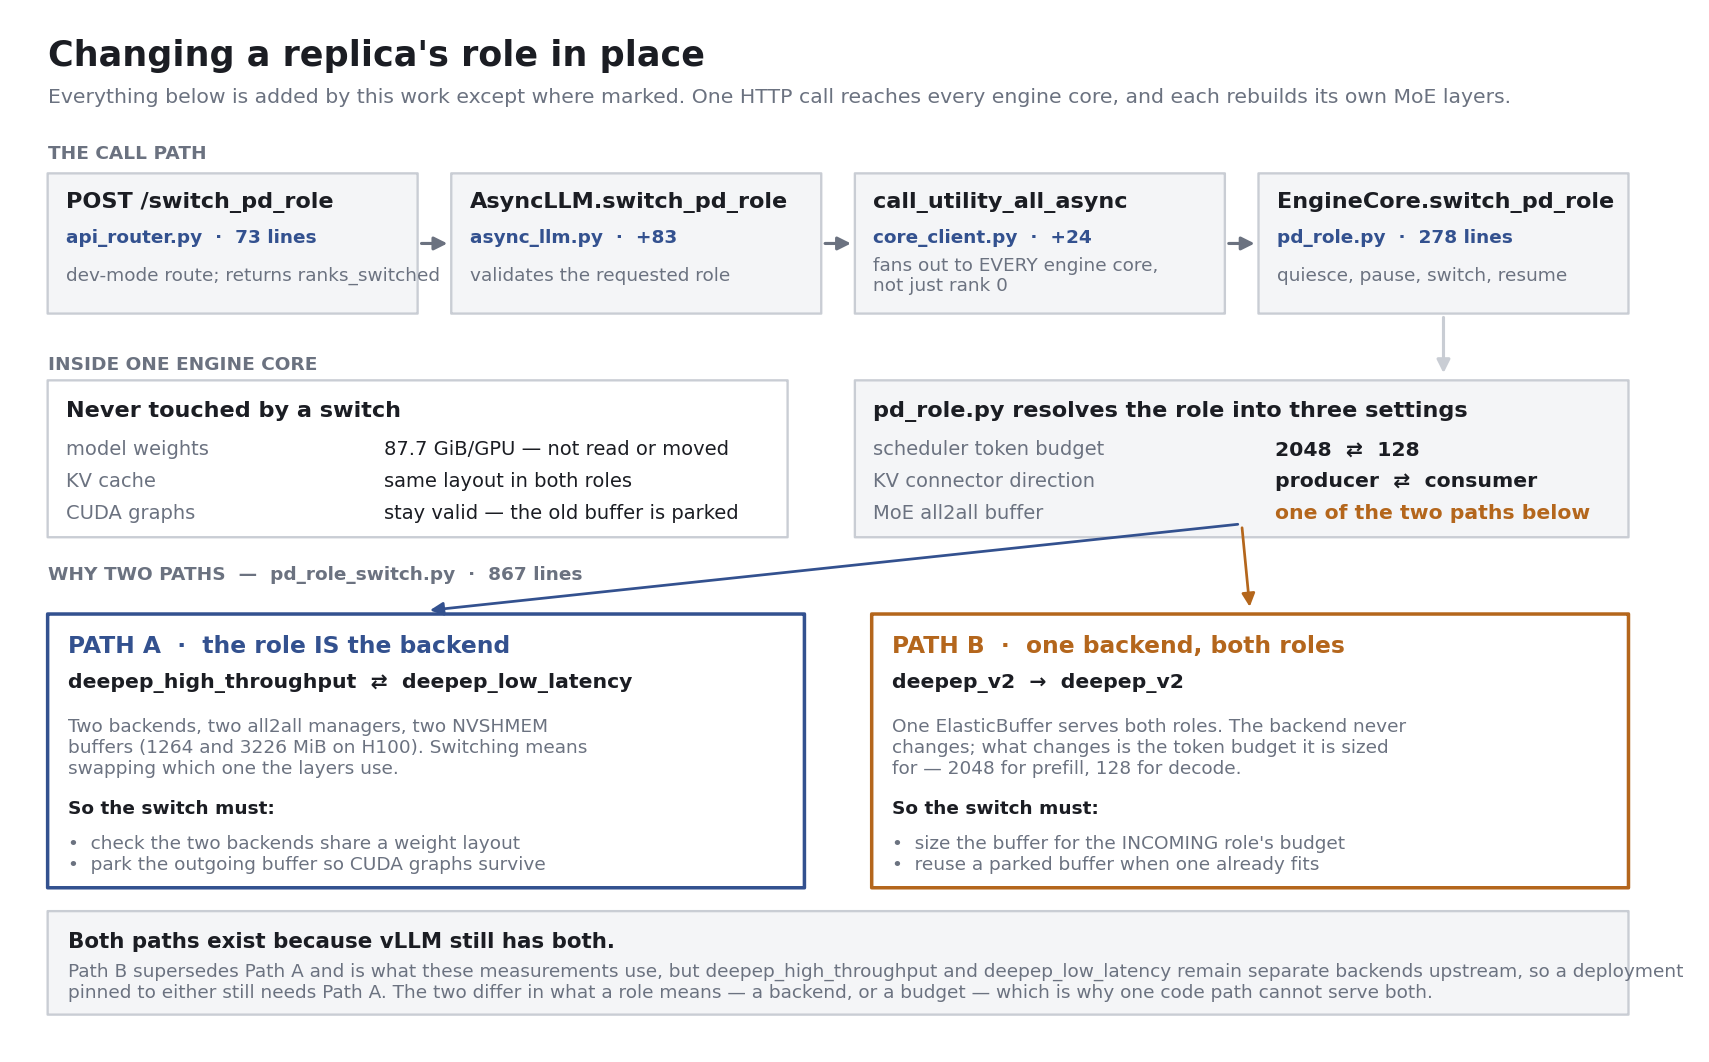
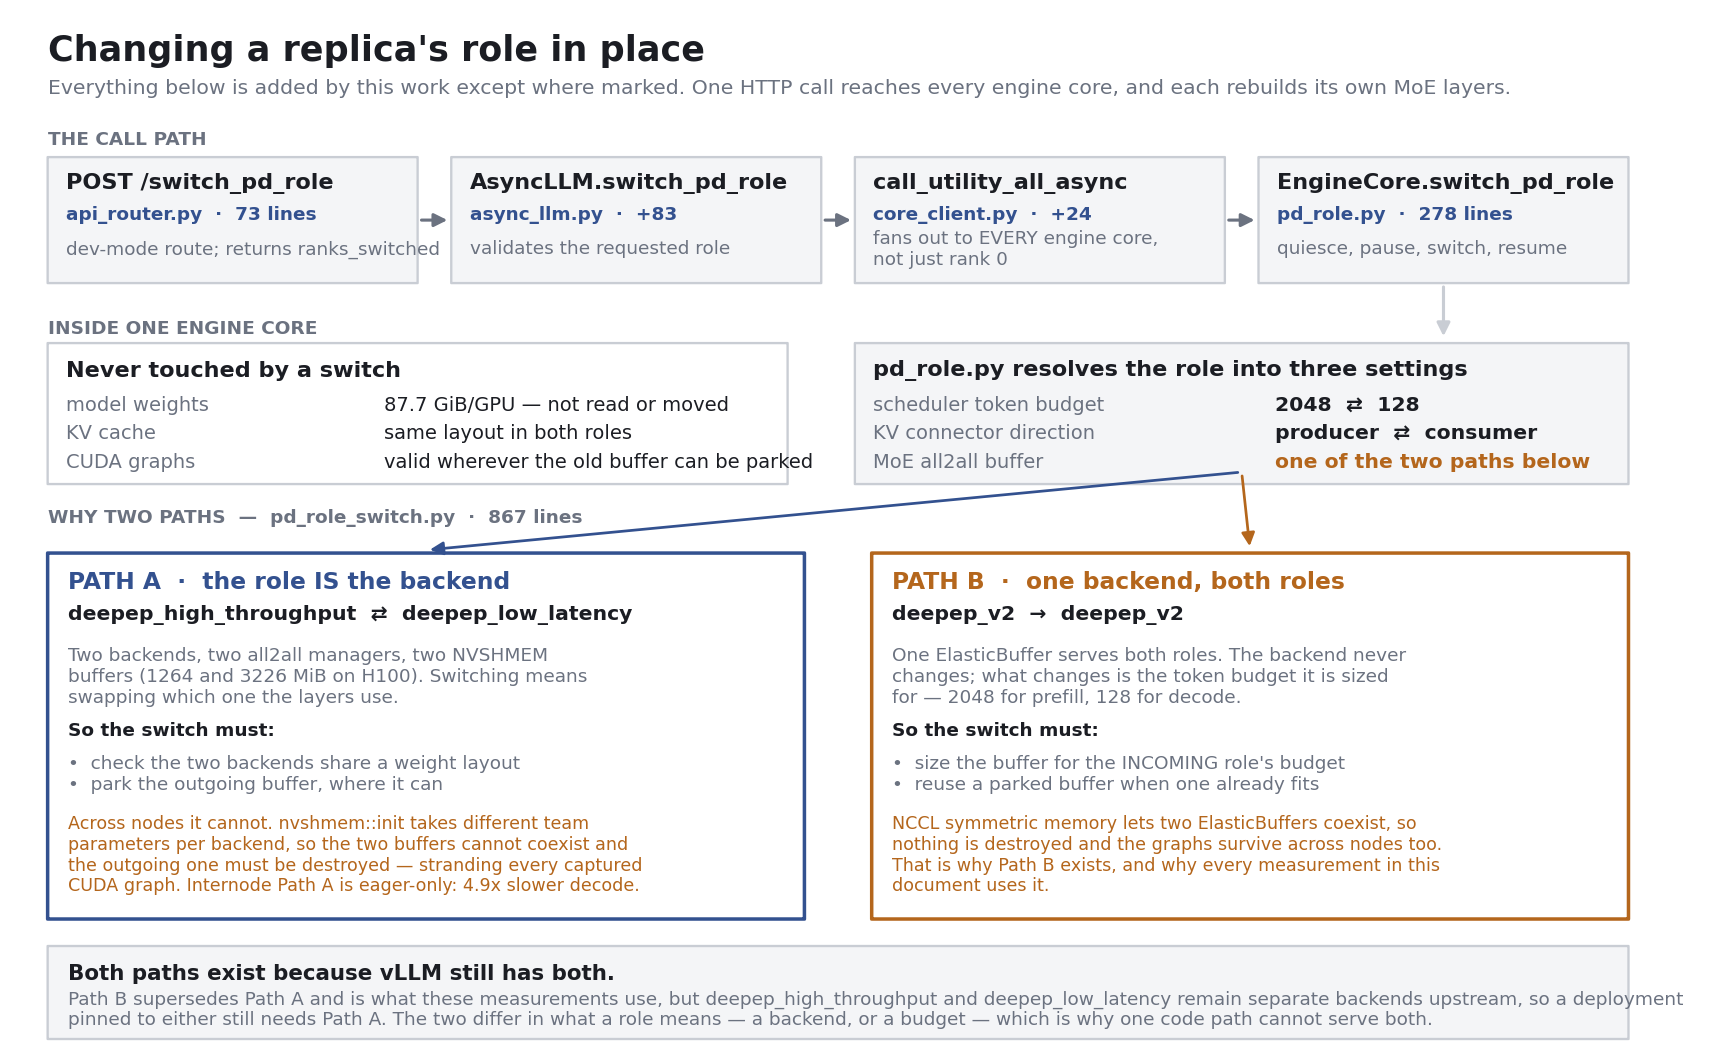
docs(architecture): the switch keeps CUDA graphs only where buffers can coexist
The diagram said Path A parks the outgoing buffer "so CUDA graphs survive". That
holds within a node and fails across nodes, which is the case the whole design
turns on: nvshmem::init takes different team parameters per backend, so the two
buffers cannot be resident together, the outgoing one must be destroyed, and
destroying it strands every captured graph. Internode Path A is eager-only, and
eager decode measured 4.9x slower -- a figure already in README.md that the
picture contradicted.

Both path boxes now carry the constraint, and Path B says why it exists at all:
NCCL symmetric memory lets two ElasticBuffers coexist, so nothing is destroyed
and the graphs survive across nodes too.

The "never touched by a switch" column claimed CUDA graphs always stay valid,
which the caveat contradicts; it now says they are valid wherever the old buffer
can be parked. The prose in section 2 gained the same constraint, since it
described the two paths without the reason the second one matters.

diff --git a/tools/pd_role_switch/img/make_diagrams.py b/tools/pd_role_switch/img/make_diagrams.py
@@ -54,7 +54,7 @@ def solution_diagram(path):
     """What we added, where it lives, and why the switch has two paths."""
     fig, ax = plt.subplots(figsize=(15.5, 9.6), dpi=140)
     ax.set_xlim(0, 100)
-    ax.set_ylim(0, 62)
+    ax.set_ylim(-7.0, 62)
     ax.axis("off")
     fig.patch.set_facecolor(WHITE)
 
@@ -97,7 +97,7 @@ def solution_diagram(path):
     text(ax, 3.1, 34.0, "KV cache", size=10, color=MUTED)
     text(ax, 22.0, 34.0, "same layout in both roles", size=10)
     text(ax, 3.1, 32.1, "CUDA graphs", size=10, color=MUTED)
-    text(ax, 22.0, 32.1, "stay valid — the old buffer is parked", size=10)
+    text(ax, 22.0, 32.1, "valid wherever the old buffer can be parked", size=10)
 
     box(ax, 50.0, 30.6, 46.0, 9.4, face=PANEL, edge=LINE)
     text(ax, 51.1, 38.2, "pd_role.py resolves the role into three settings",
@@ -118,7 +118,7 @@ def solution_diagram(path):
          size=9.5, weight="bold", color=MUTED)
 
     # Path A
-    box(ax, 2.0, 9.6, 45.0, 16.4, face=WHITE, edge=INDIGO, lw=1.8)
+    box(ax, 2.0, 1.6, 45.0, 24.4, face=WHITE, edge=INDIGO, lw=1.8)
     text(ax, 3.2, 24.1, "PATH A  ·  the role IS the backend", size=12,
          weight="bold", color=INDIGO)
     text(ax, 3.2, 21.9, "deepep_high_throughput  ⇄  deepep_low_latency",
@@ -128,14 +128,20 @@ def solution_diagram(path):
          "buffers (1264 and 3226 MiB on H100). Switching means\n"
          "swapping which one the layers use.",
          size=9.5, color=MUTED, va="top")
-    text(ax, 3.2, 14.4, "So the switch must:", size=9.5, weight="bold")
-    text(ax, 3.2, 12.8,
+    text(ax, 3.2, 14.2, "So the switch must:", size=9.5, weight="bold")
+    text(ax, 3.2, 12.6,
          "•  check the two backends share a weight layout\n"
-         "•  park the outgoing buffer so CUDA graphs survive",
+         "•  park the outgoing buffer, where it can",
          size=9.5, color=MUTED, va="top")
+    text(ax, 3.2, 8.6,
+         "Across nodes it cannot. nvshmem::init takes different team\n"
+         "parameters per backend, so the two buffers cannot coexist and\n"
+         "the outgoing one must be destroyed — stranding every captured\n"
+         "CUDA graph. Internode Path A is eager-only: 4.9x slower decode.",
+         size=9.0, color=COPPER, va="top")
 
     # Path B
-    box(ax, 51.0, 9.6, 45.0, 16.4, face=WHITE, edge=COPPER, lw=1.8)
+    box(ax, 51.0, 1.6, 45.0, 24.4, face=WHITE, edge=COPPER, lw=1.8)
     text(ax, 52.2, 24.1, "PATH B  ·  one backend, both roles", size=12,
          weight="bold", color=COPPER)
     text(ax, 52.2, 21.9, "deepep_v2  →  deepep_v2", size=10.5, weight="bold")
@@ -144,11 +150,17 @@ def solution_diagram(path):
          "changes; what changes is the token budget it is sized\n"
          "for — 2048 for prefill, 128 for decode.",
          size=9.5, color=MUTED, va="top")
-    text(ax, 52.2, 14.4, "So the switch must:", size=9.5, weight="bold")
-    text(ax, 52.2, 12.8,
+    text(ax, 52.2, 14.2, "So the switch must:", size=9.5, weight="bold")
+    text(ax, 52.2, 12.6,
          "•  size the buffer for the INCOMING role's budget\n"
          "•  reuse a parked buffer when one already fits",
          size=9.5, color=MUTED, va="top")
+    text(ax, 52.2, 8.6,
+         "NCCL symmetric memory lets two ElasticBuffers coexist, so\n"
+         "nothing is destroyed and the graphs survive across nodes too.\n"
+         "That is why Path B exists, and why every measurement in this\n"
+         "document uses it.",
+         size=9.0, color=COPPER, va="top")
 
     # The buffer line fans out into the two paths. Both start from that line so
     # neither reads as descending from the "never touched" column.
@@ -156,10 +168,10 @@ def solution_diagram(path):
     arrow(ax, (73.0, 31.4), (73.5, 26.2), color=COPPER, lw=1.4)
 
     # ---- why both survive --------------------------------------------------
-    box(ax, 2.0, 2.0, 94.0, 6.2, face=PANEL, edge=LINE)
-    text(ax, 3.2, 6.4, "Both paths exist because vLLM still has both.",
+    box(ax, 2.0, -6.4, 94.0, 6.2, face=PANEL, edge=LINE)
+    text(ax, 3.2, -2.0, "Both paths exist because vLLM still has both.",
          size=11, weight="bold")
-    text(ax, 3.2, 4.0,
+    text(ax, 3.2, -4.4,
          "Path B supersedes Path A and is what these measurements use, but "
          "deepep_high_throughput and deepep_low_latency remain separate backends "
          "upstream, so a deployment\npinned to either still needs Path A. The two "

diff --git a/tools/pd_role_switch/ARCHITECTURE.md b/tools/pd_role_switch/ARCHITECTURE.md
@@ -75,9 +75,17 @@ implementations holding two separate buffers, and switching means moving the
 layers from one to the other — which is only safe if both read weights in the
 same layout, so the switch has to check. In the newer `deepep_v2` a single
 buffer serves both roles and the backend never changes; what changes is the
-token budget the buffer is sized for. The second is what these measurements use
-and it supersedes the first, but the first remains a supported configuration
-upstream, so both paths are maintained.
+token budget the buffer is sized for.
+
+That difference decides more than tidiness. Two NVSHMEM buffers cannot be
+resident at once — `nvshmem::init` takes different team parameters for each — so
+across nodes the first path has to destroy the outgoing buffer before building
+the incoming one, and destroying it strands every captured CUDA graph. Internode
+Path A is therefore eager-only, and eager decode measured **4.9x slower**. The
+second path uses NCCL symmetric memory, where two buffers do coexist: nothing is
+destroyed, the graphs survive, and the switch becomes a swap. That is why every
+measurement in this document uses it — and why the first path is still
+maintained, since both backends remain supported upstream.
 
 ---
 
